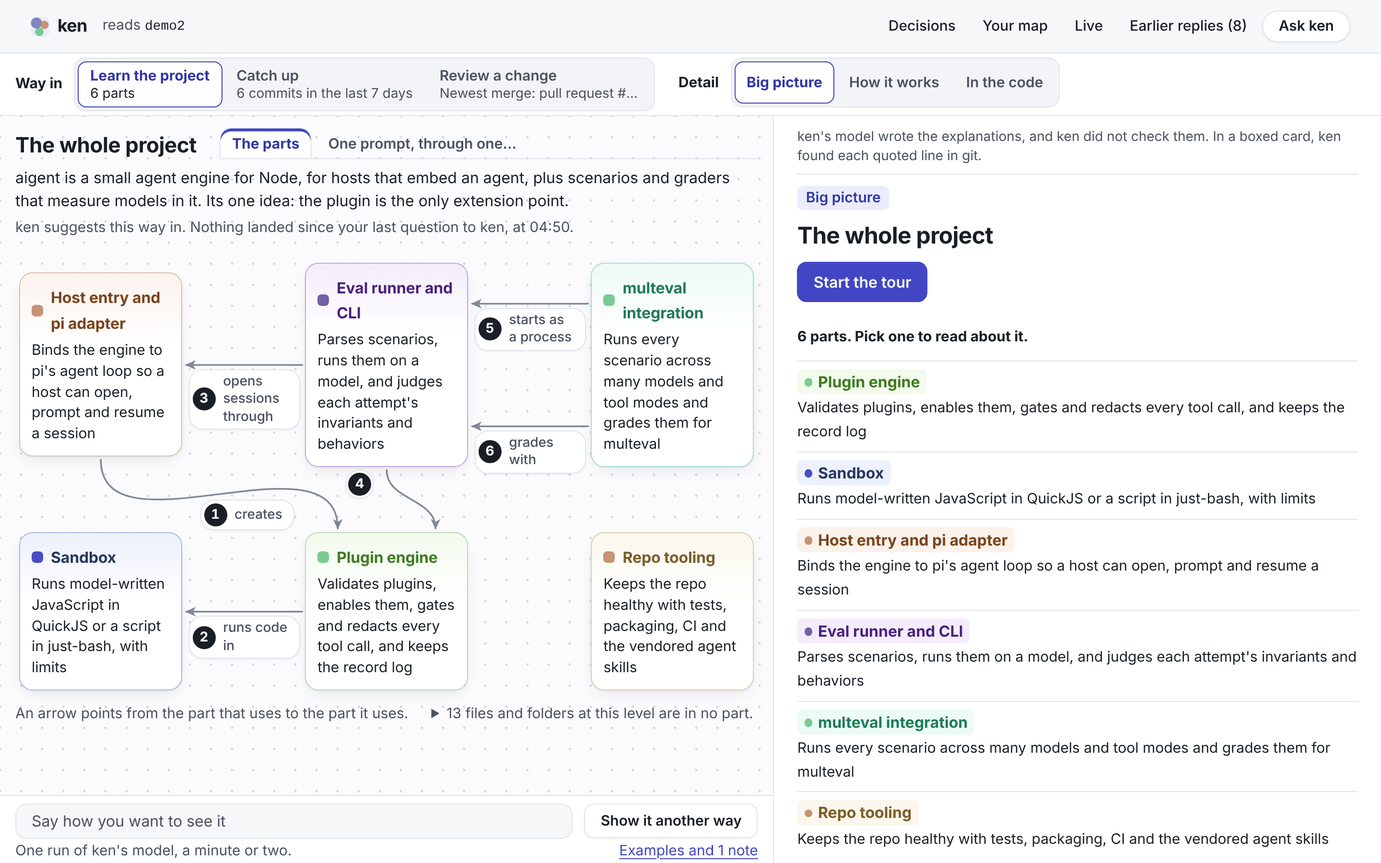
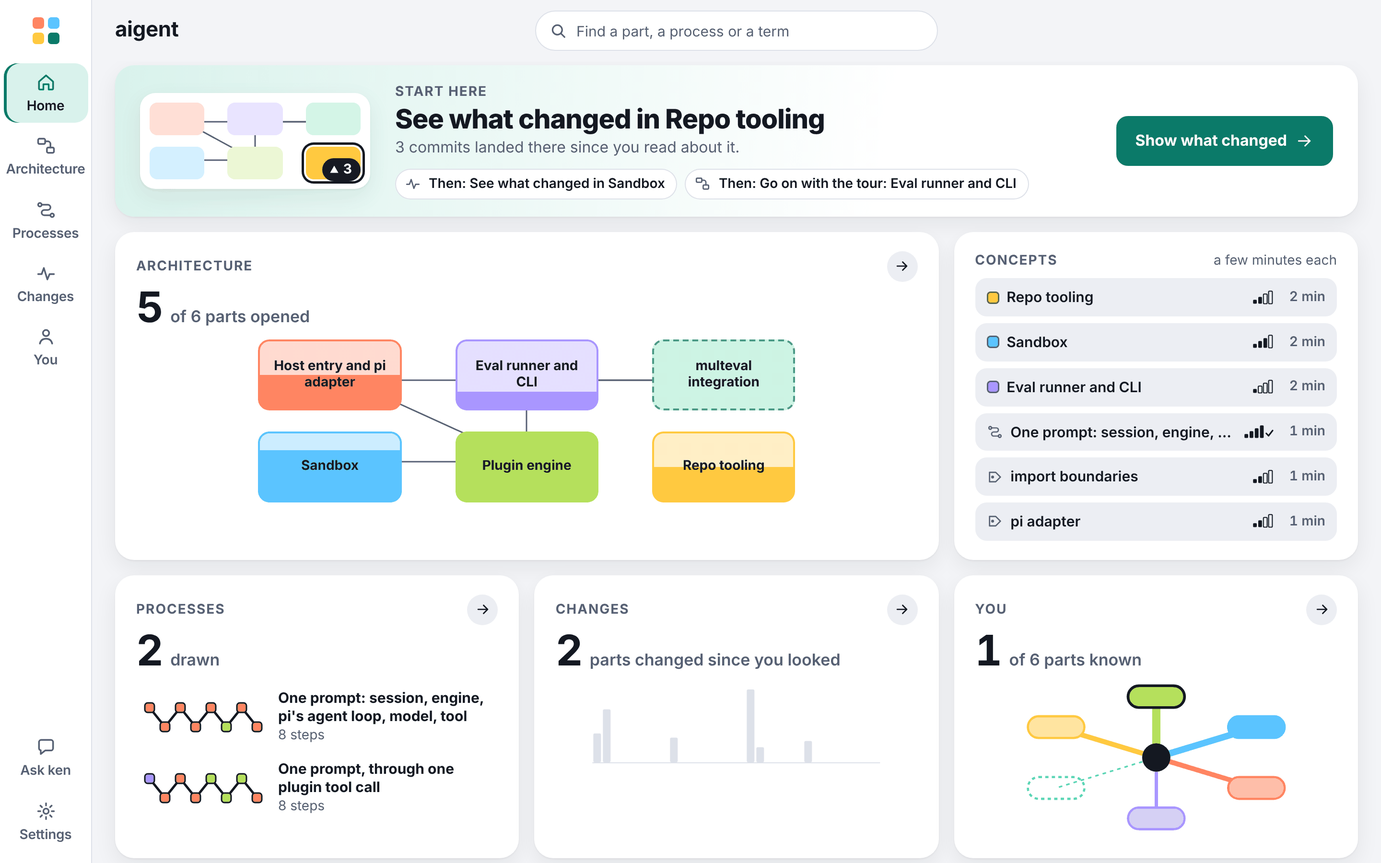
docs: the README, the plan and the module map describe the page as five pages and a drawer
The README's lead screenshot is Home at 1440 wide, light, from the real
page on the demo project. The plan's section on the page replaces the
one-screen home with the rail, each page's job, the drawer and the
address.

Claude-Session: https://claude.ai/code/session_01QWPt5YAbK6US9rHSFWQo9o

diff --git a/scripts/check/structure.ts b/scripts/check/structure.ts
@@ -61,7 +61,7 @@ export const MODULES: Record<string, Module> = {
 		packages: [],
 	},
 	page: {
-		job: "The page in the browser: plain HTML, CSS and JavaScript with a rail of pages, a canvas of the project's parts, a brief for each concept, and a thread of replies, their steps and their checked cards.",
+		job: 'The page in the browser: plain HTML, CSS and JavaScript with a rail of five pages (Home, the Architecture canvas, Processes, Changes and You), a drawer for the brief of each concept and for Ask ken, and a thread of replies with their checked cards.',
 		imports: [],
 		packages: ['mermaid'],
 	},

diff --git a/README.md b/README.md
@@ -1,10 +1,10 @@
 # ken
 
-ken explains a software project to the developer who owns it. Its page opens on a picture of the project's parts. You say why you are here (to learn the project, to catch up, or to review a change) and how close you want to look, and the picture and the text beside it follow. You can also ask what changed, why, or how a part works now. ken's model replies in its own words, and backs each claim that needs proof with a card: the exact lines it rests on, which ken looks up before you see the card. ken is built for projects where AI agents write most of the code.
+ken explains a software project to the developer who owns it. Its page is a rail of pages, each with one job: Home says where to start, Architecture shows the project's parts as blocks on a canvas, Processes draws a flow through them as lanes, Changes lays what landed over the parts, and You is your own map of what ken thinks you know. Press any part, step, term or question and its brief opens in a drawer: one line, a picture, and a few things to know. You can also ask what changed, why, or how a part works now. ken's model replies in its own words, and backs each claim that needs proof with a card: the exact lines it rests on, which ken looks up before you see the card. ken is built for projects where AI agents write most of the code.
 
-<img src="site/images/ken-home-wide.png" width="820" alt="ken's page. A bar at the top holds two controls. Way in offers Learn the project, 6 parts; Catch up, 6 commits in the last 7 days; and Review a change, the newest merge. Detail offers Big picture, How it works and In the code. On the left, the picture of the whole project: six boxes, each with a part's name and its job in a sentence, joined by six numbered arrows such as 2, Plugin engine runs code in Sandbox. Under the picture, a box to say how you want to see it, with the button Show it another way. On the right, a panel with the button Start the tour and the six parts as a list. Ask ken sits at the top right.">
+<img src="site/images/ken-home-wide.png" width="820" alt="ken's Home page. On the left, a rail with Home, Architecture, Processes, Changes and You, and at its foot Ask ken and Settings. On top, a wide Start here tile: a small map of the six parts with one lit and a badge of 3 new commits, the line See what changed in it, two more suggestions as chips, and a green button. Under it, tiles that each say a count over a small picture: the architecture filled as far as you know each part, the concepts worth a few minutes, the drawn processes, the commits by day, and your own map.">
 
-Screenshot of ken's local page on an agent harness that AI agents wrote most of. ken's model named the six parts, and ken checked each path and arrow against git.
+Screenshot of ken's Home page on an agent harness that AI agents wrote most of. ken's model named the six parts, and ken checked each path and arrow against git.
 
 ## Install
 
@@ -42,14 +42,14 @@ This puts two commands on your PATH: `ken`, and `ken-claude-endpoint`, which run
 
 ## Onboard to a project
 
-New to a project, or back after weeks away? ken's page opens on a picture of the project, and ken can show you around it, one part at a time.
+New to a project, or back after weeks away? ken's Architecture page shows the project as blocks, and ken can explain it one part at a time.
 
 1. Install ken and name its model, as above.
-2. In the project, run `ken open`. The page shows the project's main folders as boxes.
+2. In the project, run `ken open`. The Architecture page shows the project's main folders as blocks.
 3. Press **Ask ken to name these parts**. ken's model names the main parts and the arrows between them, and ken checks each against git. Commit `.ken/` so the next person gets the same parts.
-4. Press **Ask ken to explain these parts**. ken's model explains each part in turn, in one run. For each part it writes a brief: one line, three to five things to know, each a short line with a small drawing and the lines of code it rests on, the terms the part uses, and a few questions worth asking. The tour goes in the order ken's model named the parts, with tests and upkeep last. The stops open beside the picture, numbered as the boxes are. Move with Next or the arrow keys. Each stop you reach goes on your map, and **I know this part** marks it understood.
+4. Press **Ask ken to explain these parts**. ken's model explains each part in turn, in one run. For each part it writes a brief: one line, three to five things to know, each a short line with a small drawing and the lines of code it rests on, the terms the part uses, and a few questions worth asking. Press a block and its brief opens in the drawer. ken notes what you open and read, and fills in your map on the You page.
 
-Open the page again later and **Start the tour** opens the same tour, with no model, at the first stop you have not seen. **Look inside** a part opens that part's own picture, and once its parts are named it has a tour of its own.
+Open the page again later and the briefs are there with no model. Press a block a second time to go inside it: its own parts, then its files, and once its parts are named they can be explained too.
 
 ## What ken gives you
 
@@ -60,11 +60,11 @@ Open the page again later and **Start the tour** opens the same tour, with no mo
 - **One thread.** The page shows your questions to one chat as one thread, and the model remembers what it said earlier in it.
 - **Answers you can find again.** Your questions and ken's answers stay on your machine, in `~/.ken/projects/<first commit>/`. The decisions, their reasons and what each piece of work did go into the project record, in `.ken/record/`, as JSON Lines files that ken only adds to. The named parts of each picture go there too, with the words you typed to have one drawn another way. You commit the record, so a collaborator and their coding agents can read it. The notes ken keeps about how you like things shown stay on your machine, with your questions. So does what you looked at: ken writes a line to `seen.jsonl` there when you open a part, read its explanation, open its code or walk through a change, and says from those lines what it thinks you know of each part. It is a plain file that never leaves your machine, and you can open and correct it.
 - **Where each reason comes from.** ken labels each decision from its quotes, so a model cannot mark its own guess as recorded. "Recorded" means written down at the time, in a commit message or with `ken decide`. "From the session" means quoted from a saved session. "Inferred" means the model worked it out. "Found by search" marks a link between pieces of code that rests on a text search.
-- **What waits on you.** "Waiting on you" lists the decisions a coding agent left for you, and the topics you marked as known whose code has changed since, with who changed them. Answer a decision with "Keep what was chosen" or "I want it changed". ken saves your answer and changes no code.
-- **The project as a picture.** The page opens on the project as a few boxes. A part that uses another sits above it, and a numbered arrow joins them. Beside the picture, a panel says what ken knows about the box you pick. At first the boxes are the main folders. Each box says when code you understood there has changed. Looking needs no model: the picture comes from git, the record and your map. The page's address keeps your place, so the browser's Back goes to the level before.
-- **Two controls over it.** "Way in" says why you are here: "Learn the project" shows the parts as they are, "Catch up" lays over them what landed since you last looked or since a day you name, and "Review a change" lays over them your own work, a branch, a merge or a commit. ken suggests a way in from git and says why. "Detail" says how close you look: "Big picture" gives each part's job, "How it works" gives the reading path stop by stop, or step by step for a change, and "In the code" gives the quoted lines and the diff. A change laid over the parts lists its commits and the changed files of each part, and at "In the code" the diff of the part you pick. All of that is from git.
+- **What waits on you.** The Decisions tab of the Changes page lists the decisions a coding agent left for you, and the topics you marked as known whose code has changed since, with who changed them. Answer a decision with "Keep what was chosen" or "I want it changed". ken saves your answer and changes no code.
+- **The project as a picture.** The Architecture page shows the project as big blocks joined by arrows, each with a verb. At first the blocks are the main folders. Each block says what ken thinks you know of it and when code changed there since you looked. Layers light the parts a drawn process passes through, what a span of commits touched, or what you know. Looking needs no model: the picture comes from git, the record and your map. The page's address keeps your place, so the browser's Back goes to the place before.
+- **A page for each job.** Home says where to start, from what changed in parts you know and what you have not opened yet. Processes shows the processes ken drew as lanes, one per part, steps left to right; a step opens its brief and its lines. Changes has a timeline of commits by day that you drag across to pick a span, the parts with what it touched, and a change to review (a merge, a branch, a range or a commit) with its story and its steps, each step a brief with its diff. Its tabs hold the decisions that wait on you and live mode. You is your map: each part a branch that grows as you open, read and look at its code, with what ken recorded beside it and "Not right" on every line.
 - **What runs the model.** "Ask ken to name these parts" makes the folders parts. ken checks every path and arrow against git and says when the code has moved away from them. A tour, a change's story and its walkthrough are each one run of the model, a minute or two. Each is started from the picture and kept, so it opens again with no model. Every button that starts a run says so.
-- **A picture drawn your way.** Under the picture, "Show it another way" takes your own words, such as "Fewer, bigger parts". ken's model draws the level again, ken checks the new parts as it checked the old, and "Go back to the picture before" brings the earlier one back. Some requests are not a grouping of parts, such as "Follow one request through the code" or "Show how the data of a run is stored". For those the model draws a diagram, and ken checks the lines it quotes. The diagram gets a tab beside "The parts", under its own title, and shows in place of the parts until you pick another tab. "Detail" works on it too: first the model's words, then its boxes and arrows by number, then the lines each one quotes. Pick a number in the drawing or in the list, and the other side marks it. A drawn picture stays, so its tab opens again with no model. When what you say is about you, such as "I am new to TypeScript", ken keeps it as a note. The note shows under "Show it another way", later replies follow it, and you can remove it.
+- **A picture drawn your way.** On the canvas, "Draw it another way" takes your own words, such as "Fewer, bigger parts", and on Processes, ken offers flows worth drawing. ken's model draws the level again, ken checks the new parts as it checked the old, and "Go back to the picture before" brings the earlier one back. Some requests are not a grouping of parts, such as "Follow one request through the code" or "Show how the data of a run is stored". For those the model draws a diagram, and ken checks the lines it quotes. The diagram opens on Processes, as lanes or on the map of the parts, and stays, so it opens again with no model. When what you say is about you, such as "I am new to TypeScript", ken keeps it as a note. The note shows on the You page, later replies follow it, and you can remove it.
 - **Live mode.** Beside your coding agent, ken writes a short note on each commit and on uncommitted work that has gone quiet. Live mode is off until you turn it on, and it shows what it spends.
 
 In ken's last two test rounds, on pull requests it had never seen, fresh AI judges compared its answers with a plain chat on the same model, and each time rated ken's narrowly better overall, for its checked quotes and its kept record. The verdicts are in [docs/checkpoint/](docs/checkpoint/).
@@ -75,7 +75,7 @@ Early work, not released. No package registry, no license, private repository. [
 
 - ken runs on your machine and only reads. It never edits your code, commits or pushes, and it writes only in `.ken/` in the project and in `~/.ken/`. It works with git repositories, Claude Code sessions and one developer.
 - It talks to an OpenAI-compatible endpoint, and the code and session text it reads go to that provider. It has been run on glm-5.3 and kimi-k3.1-pro through Ollama Cloud, and on Claude Opus through ken's local adapter for the Claude Code command.
-- ken hides what looks like a credential in a saved session before the model sees it, and hides nothing in your code or git history. A secret written in plain words, or a short one, gets through. The record keeps the quoted lines of a session, and the words you typed into "Show it another way", so commit `.ken/` only if you are happy to share them. `KEN_SESSIONS=off` stops ken reading sessions.
+- ken hides what looks like a credential in a saved session before the model sees it, and hides nothing in your code or git history. A secret written in plain words, or a short one, gets through. The record keeps the quoted lines of a session, and the words you typed into "Draw it another way", so commit `.ken/` only if you are happy to share them. `KEN_SESSIONS=off` stops ken reading sessions.
 - Not built: readers for other coding tools' sessions, anything for teams, and a parser or index of the code.
 
 ## Run it
@@ -156,14 +156,14 @@ npm run ken -- who bo@example.com --since 14d --repo ../my-project
 npm run ken -- since 2026-11-01 --repo ../my-project
 ```
 
-`open` starts the page for the repository in the current folder, or the one you name, and opens it in your browser. It prints the address too, in case no browser opens. Press Ctrl-C to stop it. The page opens on the picture of the project, with the "Way in" and "Detail" controls over it and, beside it, what ken says about the part, stop or step you pick. With no model set, the page still opens: the picture, the tours and stories ken has kept, and your earlier answers need none, and the page says what to set. "Ask ken" in the header opens a box for a free question. Its reply opens as a thread, where the page draws diagrams with Mermaid, which ken serves from its own address. Under each reply that names a topic, "I know this", "Too much" and "Go deeper" update your map. "Or let ken write the question", under a reply and in the "Ask ken" box, holds the lenses: catch up, an area, and what changed, by one person or by everyone, in a span you pick. The header links to "Decisions" and "Your map", to "Live" when a model is set, to "Waiting on you" when something waits on you, and to "Earlier replies" once ken has replied to you. The name ken, at the top left, goes back to the picture.
+`open` starts the page for the repository in the current folder, or the one you name, and opens it in your browser. It prints the address too, in case no browser opens. Press Ctrl-C to stop it. The page opens on Home. The rail leads to Architecture, Processes, Changes and You, and search on top finds a part, a process or a term and opens its brief. With no model set, the page still opens: the picture, the briefs and stories ken has kept, and your earlier answers need none, and the page says what to set. "Ask ken" on the rail opens a drawer for a free question, with questions worth asking from the briefs you opened last. Its reply opens as a thread, where the page draws diagrams with Mermaid, which ken serves from its own address. Under each reply that names a topic, "I know this", "Too much" and "Go deeper" update your map. "Or let ken write the question", under a reply and in the drawer, holds the lenses: catch up, an area, and what changed, by one person or by everyone, in a span you pick. Settings holds how much text a brief shows (Pictures first, Balanced, More words) and light or dark. On a phone the five pages sit along the foot.
 
 ```sh
 npm run ken -- open
 npm run ken -- open --repo ../my-project --port 4242
 ```
 
-`open --live` starts the page with live mode on; the "Live" view's switch turns it on and off too. `live` runs it in the terminal instead: it prints what it sees now, then each note as ken writes it, until Ctrl-C. Both need a model, and each note is one question to it. "Pause" holds the notes, "Write a note now" asks for one at once, and "Open as a question" on a note asks for the full answer on that change.
+`open --live` starts the page with live mode on; the switch on the Live tab of the Changes page turns it on and off too. `live` runs it in the terminal instead: it prints what it sees now, then each note as ken writes it, until Ctrl-C. Both need a model, and each note is one question to it. "Pause" holds the notes, "Write a note now" asks for one at once, and "Open as a question" on a note asks for the full answer on that change.
 
 ```sh
 npm run ken -- open --live --repo ../my-project

diff --git a/docs/plan.md b/docs/plan.md
@@ -227,19 +227,20 @@ The owner said on 2026-11-22 how they take a project in: "reading a small descri
 
 Three more reads serve the pages around the brief, all with no model. `GET /api/concepts` lists what search can find: the parts of the top level and of every named level, the terms and the drawn processes. `GET /api/processes` gives each drawn diagram as lanes matched to the parts of a level and the messages between them, with the processes ken's model offered to draw. `GET /api/timeline` counts the commits of each day, merges apart, in UTC days as a change asked by `since:` uses.
 
-### The home, as built
+### The page, as built
 
-The owner asked on 2026-11-22 for a dashboard in place of a chat. The page opens on the layout, and plain code decides everything on it except the words inside a stored reply.
+The owner asked on 2026-11-22 for a dashboard in place of a chat, and then for pages that each do one thing, with pictures first. The page is a rail of pages and one drawer. Plain code decides everything on it except the words inside a stored reply or brief.
 
-- **The frame.** From 1200 pixels wide the picture and the panel beside it stand side by side under the two controls, each scrolling by itself, with "Show it another way" as one row under the picture. Under that they stand in one column and the page scrolls. The code calls the panel the inspector.
-- **Two controls.** The way in decides what is laid over the parts: nothing (learn the project), what landed since a point in time (catch up), or the reader's own work, a branch, a merge or a commit (review a change). ken suggests one from git, and the reader's own pick is kept in the browser. The detail decides how close the page looks: big picture, how it works, in the code. A level of folders has only the big picture.
-- **The panel beside the picture shows stored replies.** It says what ken has to say about the selection. Plain code finds it among the reader's saved questions. For a named level it is the newest answered tour of the same level and the same parts. For a change it is the newest answered reply about the same range that was asked for its story, and the newest that was asked for its walkthrough. The server says what each reply was asked for, so a later question about the same change is not taken for its story. So a tour, a story and a walkthrough each cost one model run, once.
-- **A change says what git says.** With no model, a change laid over the parts lists its commits, the changed files of each part with their lines added and removed, and at "In the code" the diff of the part the reader picks. A closer detail never shows less than the one before it.
-- **One reading path.** At "How it works" and "In the code" the panel lists every stop or step in order, numbered as the boxes are, with the picked one open. Picking a box and picking its stop in the list do the same thing.
-- **A level has pictures.** The parts are the first. Each drawn picture of the level is another: plain code finds them among the reader's saved questions, as the answered requests to show this level another way whose reply holds a diagram and no layout. Tabs beside the level's name offer them, newest first, each under its diagram's title, four before the rest go behind "Older". One field says which picture is on screen. A drawn picture shows its drawing where the parts were, and a drawing wider than that place scrolls sideways there. Its reading path is the diagram's boxes and then its arrows, under the numbers of the drawing, so the detail, the picked line and the arrow keys work as they do on a tour: the model's words at the big picture, the numbered list at how it works, the quoted lines in the code. The way in and the change laid over belong to the parts, so picking a way in goes back to them. After a request that drew a diagram the home opens its tab, and ken's answer to the request keeps only the model's words.
-- **Runs stay on the home.** Naming the parts, a tour, a story, a walkthrough and a request to show a level another way start from the home and show their progress in the panel. When a run ends, the page reads the layout, the questions and the notes again. A run is judged against the level and the change it started on. A reader who moved on meanwhile is told in one line that it finished, with the way back. A run that made nothing the home can show says so, with a link to its full reply in the thread.
-- **The address keeps the place.** The way in, the detail, the opened parts, the change, the picture's tab and the selection are in the page's address. A new level or way in is a new entry in the browser's history, so Back goes to the one before, and a reload keeps the place.
-- **Chat is a side action.** "Ask ken" opens a drawer for a free question, about the selected part when there is one. The reply opens as a thread, as before.
+- **The rail.** Home, Architecture, Processes, Changes and You, with Ask ken and Settings at its foot. Under 760 pixels the five pages sit along the foot, each an icon over its name, and Ask ken and Settings move into the bar on top. Search on top finds a part, a process or a term and opens its brief.
+- **Home** says where to start, from the server's `next.items`, and how things stand, as tiles: the architecture filled by level, concepts worth a few minutes, the drawn processes, the commits by day, the reader's map, and what waits on them.
+- **Architecture** is the canvas: the parts as blocks with arrows and verbs, pan, zoom and a minimap. A press opens a block's brief, a second press goes inside it, and a breadcrumb goes back up. Layers light the parts a drawn process passes through, what a span of commits touched, or what the reader knows. "Draw it another way" asks ken's model to draw the level again.
+- **Processes** shows the drawn processes (`GET /api/processes`) as small pictures, and the chosen one large: one lane for each part it passes through, in the part's colour with its level, the steps left to right and numbered. A step opens its brief (`step:<process>:<n>`). A switch shows the same steps on the map of the parts. The offers ken names, and a box for any other drawing, are each one run of the model; the drawing it makes opens large.
+- **Changes** has a timeline of commits by day (`GET /api/timeline`), with merges and the reader's last visit marked. Dragging across it picks where a span starts; a span runs to today, as the server takes `since:<day>`. Under it the parts show what the span touched, with counts. Beside them, a change to review (the newest merges, uncommitted work, or a branch, range or commit typed in) shows its commits, and its story and steps from the stored replies, or one run to ask for them. A step opens in the drawer with its diff; the page builds that brief from the stored walkthrough. Two tabs hold what waits on the reader with the record's decisions, and live mode.
+- **You** is the reader's own map: the project in the middle and each part a branch that grows with the level ken holds, a dashed bud when not opened, its inner parts once read, solid with a tick when the reader said they know it, and a badge for the commits since they looked. Beside it: what ken recorded lately, each line with "Not right" to take it back or set the part's level, the notes ken keeps, and where these files are.
+- **The drawer.** A brief opens on the right over any page; on a phone it covers the page. Ask ken opens in the same place, with the questions of the briefs the reader opened last, the box, and the earlier replies behind one press. A question still opens as a thread with its checked cards.
+- **Stored replies are found by plain code.** For a named level the newest answered tour or explain run of the same parts; for a change the newest answered reply about the same range asked for its story, and the newest asked for its walkthrough. So a story and a walkthrough each cost one model run, once.
+- **Runs are judged where they started.** When a run ends, the page reads the layout, the questions and the notes again. A reader who moved on meanwhile is told in one line that it finished, with the way back.
+- **The address keeps the place.** The page, the opened parts and the layer, the change and the tab on Changes, and the open brief are in the page's address. Another page, level or brief is a new entry in the browser's history, and a reload keeps the place. An address from the one-screen home that came before opens the nearest page now.
 
 ### Labels on every statement
 
